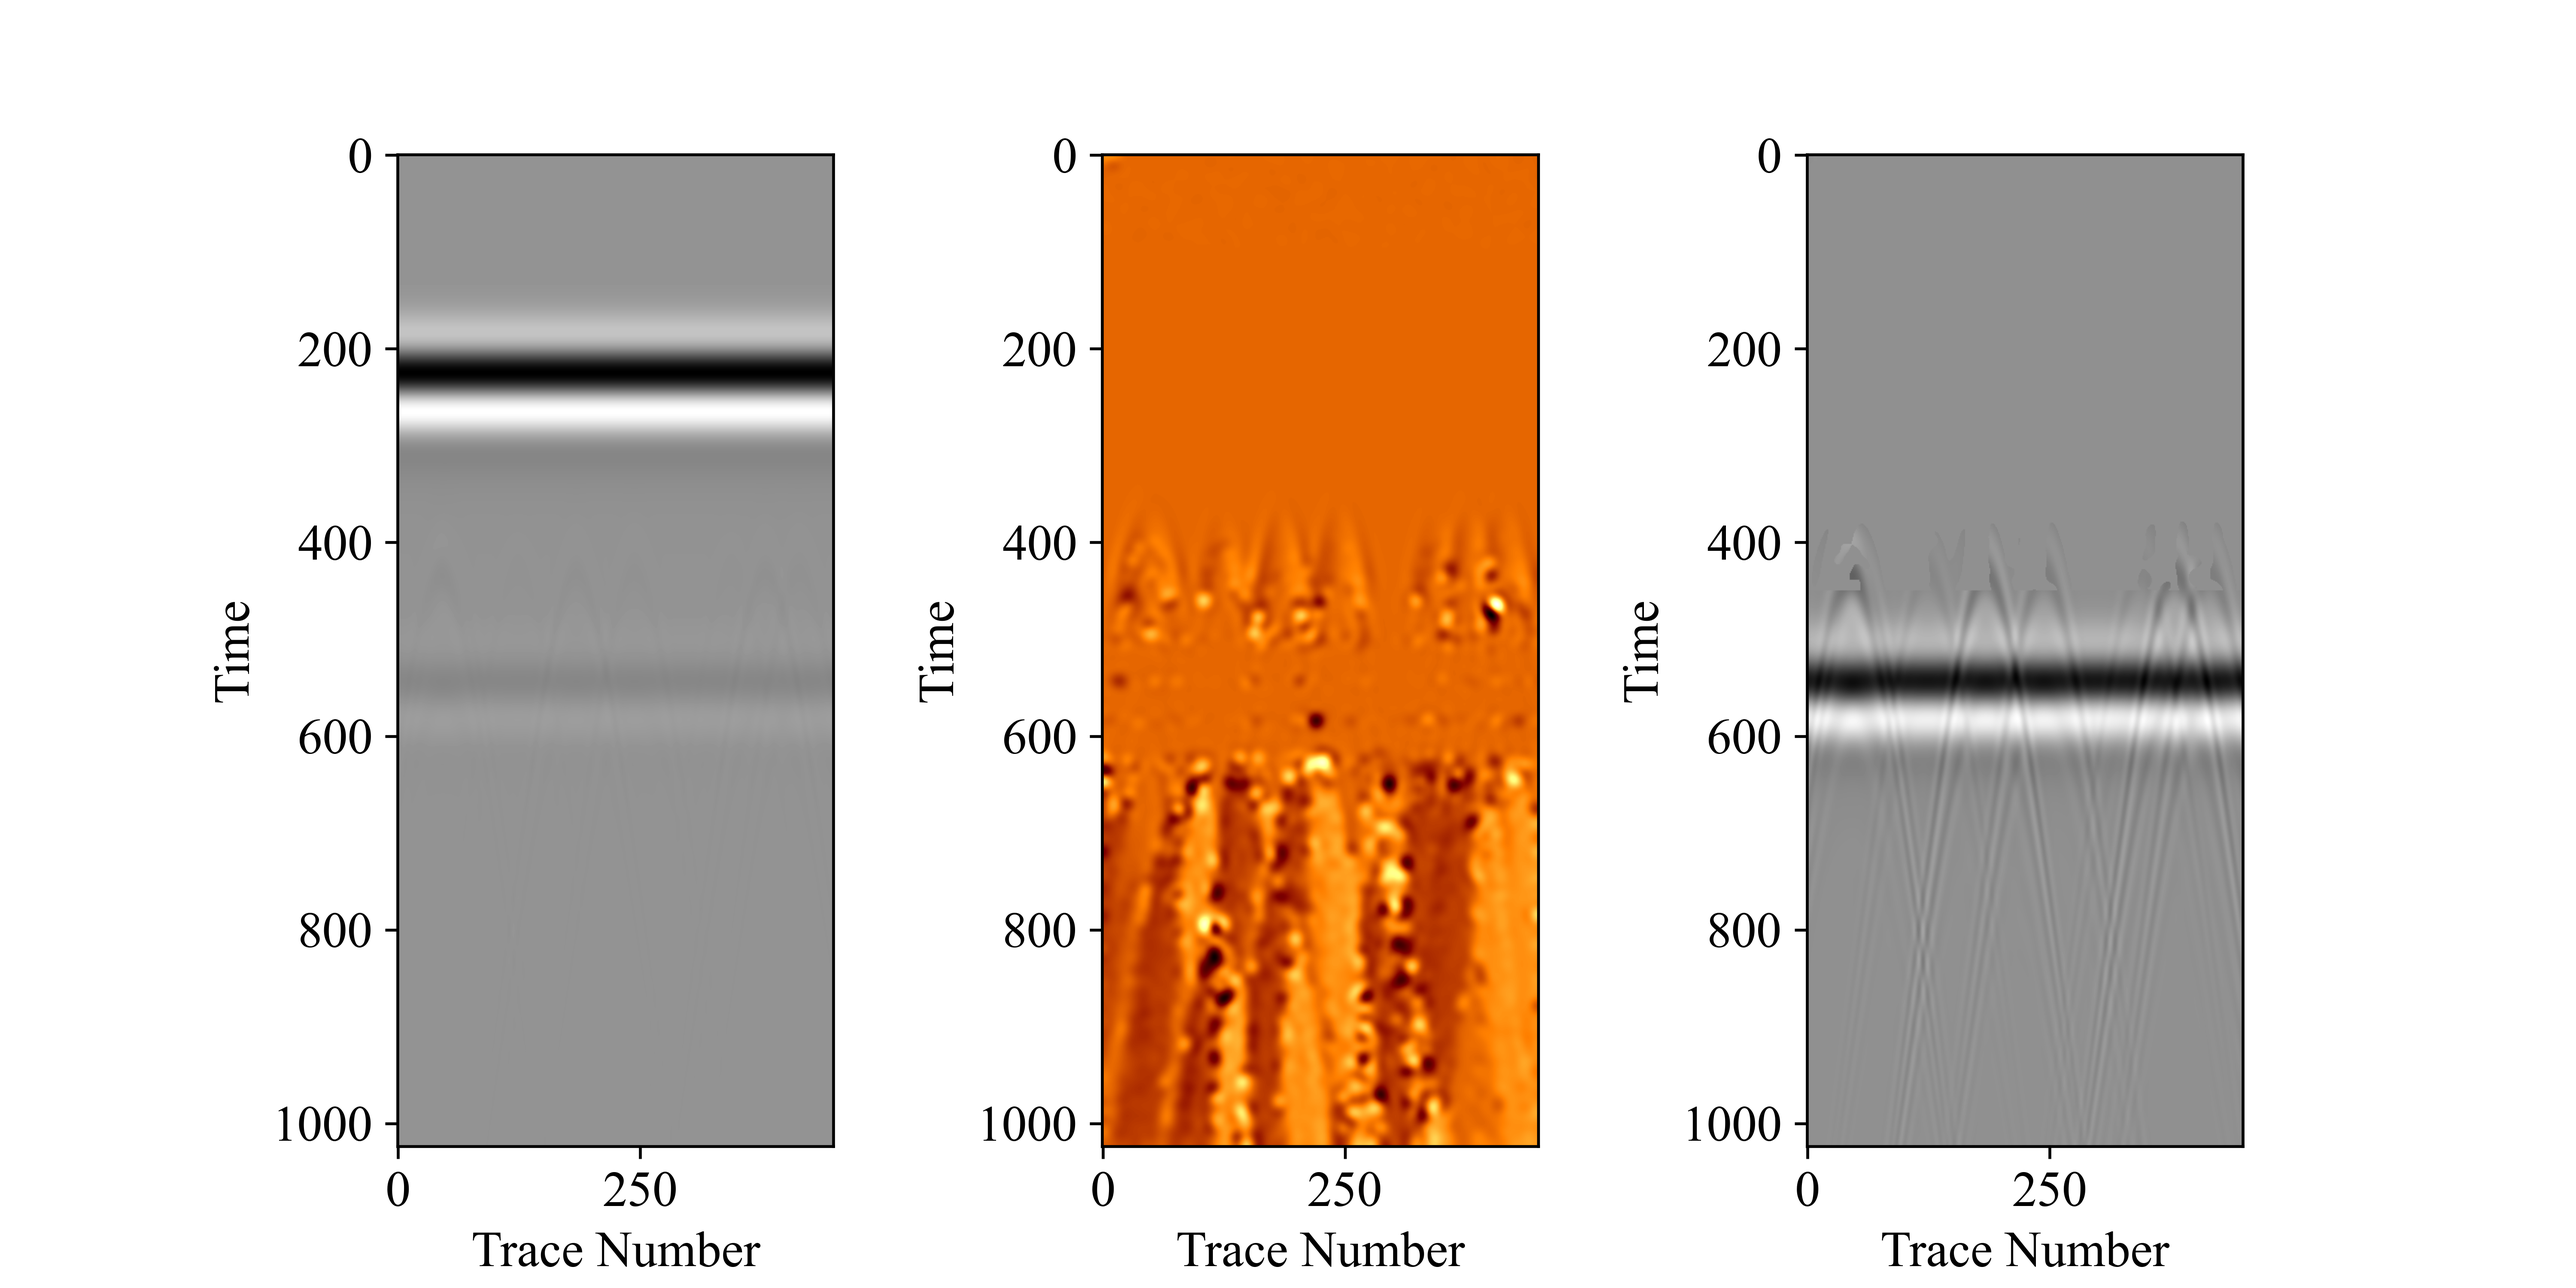
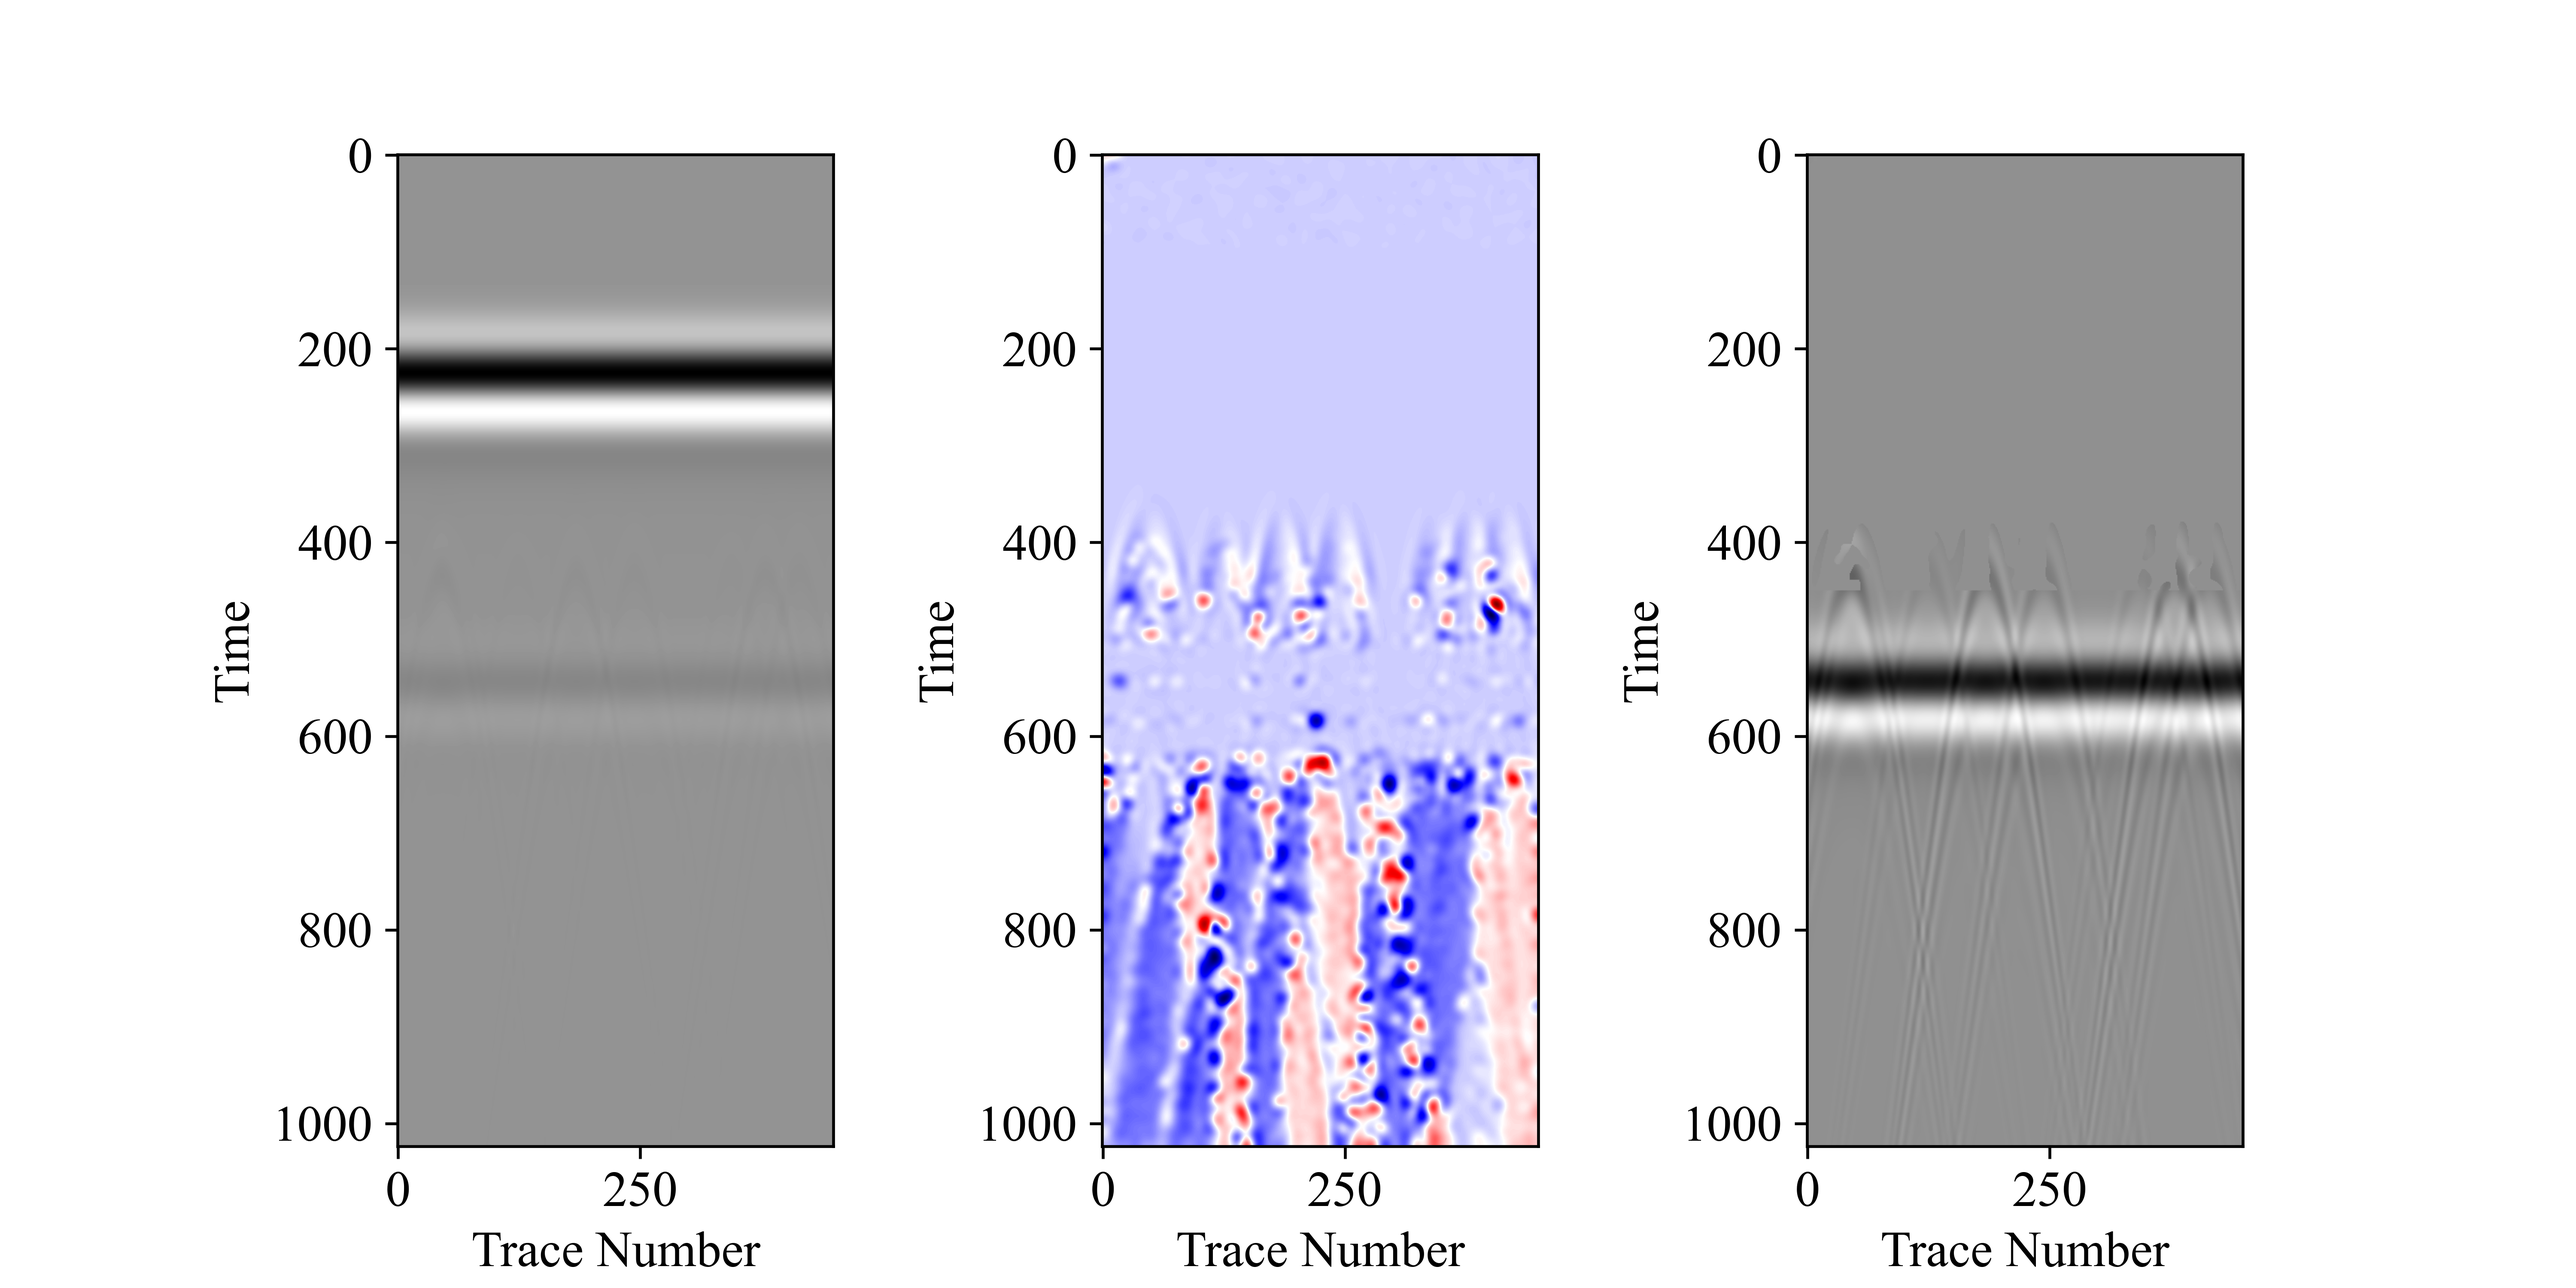
Updated codes

Changed region(s): [[0.4052, 0.124, 0.6233, 0.899]]

diff --git a/code2D/PWD/plot.py b/code2D/PWD/plot.py
@@ -37,7 +37,7 @@ for i in range(len(dip[0])):
 
 # plot original trace and secTemp trace
 plt.subplot(1, 3, 2)
-plt.imshow(dip, cmap=cm.afmhot)
+plt.imshow(dip, cmap=cm.seismic)
 # plt.title("Dip")
 plt.xlabel('Trace Number')
 plt.ylabel('Time')
@@ -49,7 +49,7 @@ plt.ylabel('Time')
 plt.savefig(path+'PWD_'+model+'.png', dpi=600)
 
 plt.figure(2)
-plt.imshow(sec, cmap=cm.gray)
+plt.imshow(sec, cmap=cm.gray, aspect='auto')
 # plt.title("Trace with PWD")
 plt.xlabel('Trace Number')
 plt.ylabel('Time')
